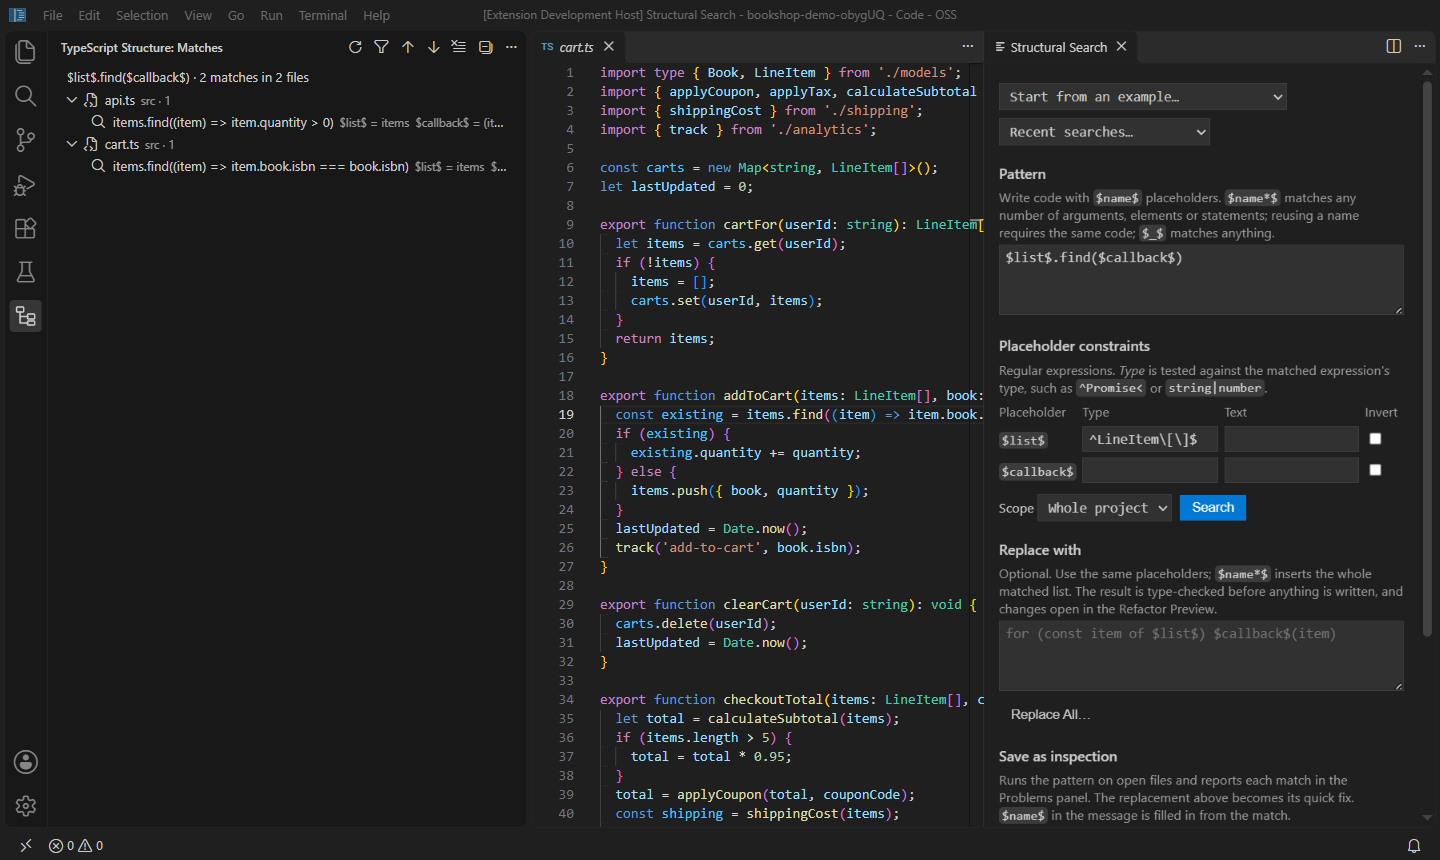
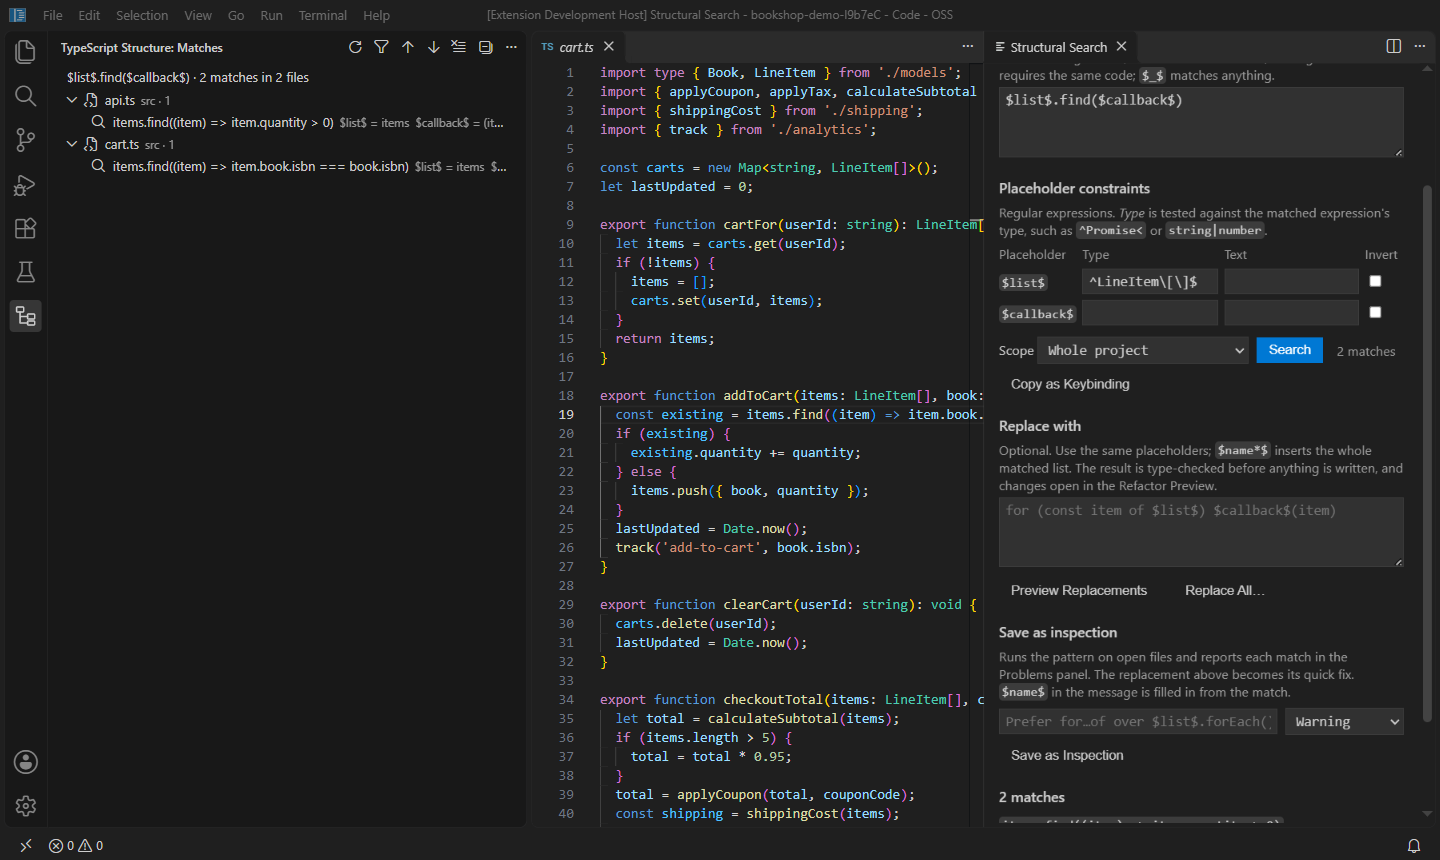
Structural Replace: flag replacement placeholders the pattern lacks
While typing the replacement, placeholders that do not appear in the pattern (usually a typo such as $valu$) are listed under the box, since they would otherwise be inserted as literal text. The screenshots show the preview with its per-match links.

diff --git a/src/ui/structuralSearchPanel.ts b/src/ui/structuralSearchPanel.ts
@@ -382,6 +382,7 @@ function html(webview: vscode.Webview, pattern: string, preset?: SearchPreset & 
   <h2>Replace with</h2>
   <p class="hint">Optional. Use the same placeholders; <code>$name*$</code> inserts the whole matched list. The result is type-checked before anything is written, and changes open in the Refactor Preview.</p>
   <textarea id="template" spellcheck="false" placeholder="for (const item of $list$) $callback$(item)"></textarea>
+  <div id="templateProblem" class="error"></div>
   <div class="row">
     <button id="previewReplace" class="secondary" title="Show each match with its replacement, without changing any file">Preview Replacements</button>
     <button id="replace" class="secondary" title="Ctrl+Enter in the replacement">Replace All…</button>
@@ -483,7 +484,14 @@ function html(webview: vscode.Webview, pattern: string, preset?: SearchPreset & 
   onSubmit('pattern', 'search');
   onSubmit('template', 'replace');
   $('scope').addEventListener('change', save);
-  $('template').addEventListener('input', save);
+  // Placeholders in the replacement must come from the pattern; a typo would otherwise be inserted literally.
+  function checkTemplate() {
+    const known = placeholders($('pattern').value);
+    const unknown = placeholders($('template').value).filter((name) => !known.includes(name));
+    $('templateProblem').textContent = unknown.length ? 'Not in the pattern: ' + unknown.map((n) => '$' + n + '$').join(', ') : '';
+  }
+  $('template').addEventListener('input', () => { save(); checkTemplate(); });
+  $('pattern').addEventListener('input', checkTemplate);
   $('copyKeybinding').addEventListener('click', () => {
     vscode.postMessage({ type: 'copyKeybinding', spec: spec(), scope: $('scope').value, template: $('template').value });
   });

diff --git a/README.md b/README.md
@@ -453,7 +453,7 @@ Every analysis can be started three ways: from the editor's right-click menu und
 ![Replacing Math.round($value$ * 100) / 100 with Number($value$.toFixed(2)): the preview shows both rewrites, in pricing.ts and reports.ts, and that the result type-checks cleanly](docs/images/structural-replace.png)
 
 1. In **Structural Search…**, write the pattern to find. In the demo, use `Math.round($value$ * 100) / 100`.
-2. Under **Replace with**, write the new code using the same placeholders: `Number($value$.toFixed(2))`. `$name*$` placeholders insert the whole matched list.
+2. Under **Replace with**, write the new code using the same placeholders: `Number($value$.toFixed(2))`. `$name*$` placeholders insert the whole matched list. A placeholder the pattern doesn't define, usually a typo, is flagged under the box.
 3. Click **Preview Replacements**. Every match is listed with its old code (−) and new code (+). The summary says whether the result *type-checks cleanly* or lists each new type error, such as calling a method the value doesn't have. To change only some matches, click **Replace this one** under a match.
 4. Click **Replace All…**, or press `Ctrl+Enter` in the replacement. The changes open in VS Code's Refactor Preview, where you can untick individual files or changes before applying them. Turn off `tsStructure.previewRefactorings` to apply directly.
 5. A replacement that doesn't parse is refused before anything is written, with the file and line where it breaks. Use **Undo** (`Ctrl+Z`) in the edited files to revert an applied replacement.
